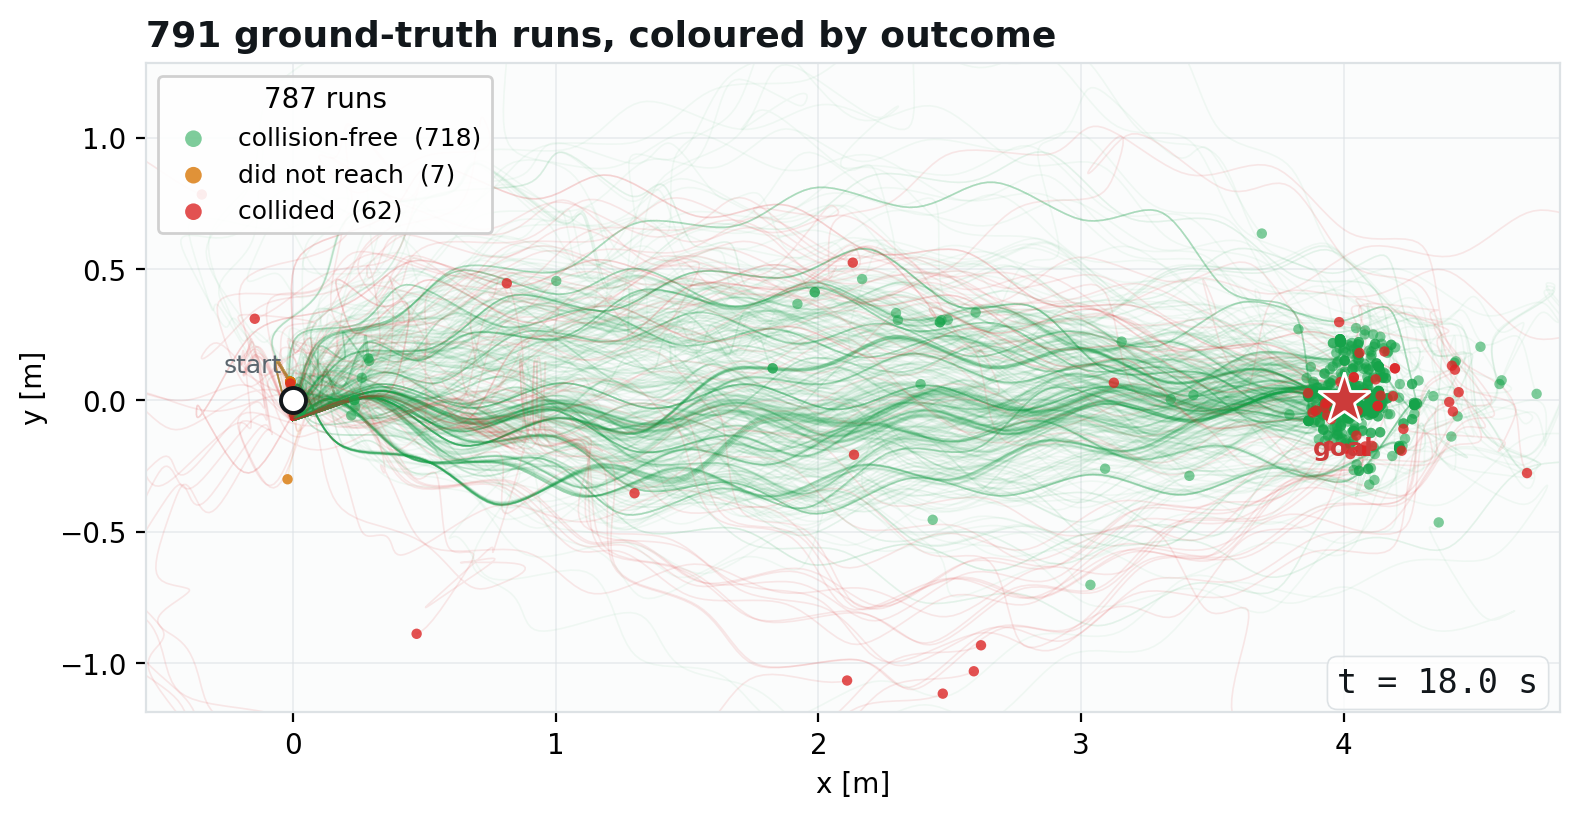
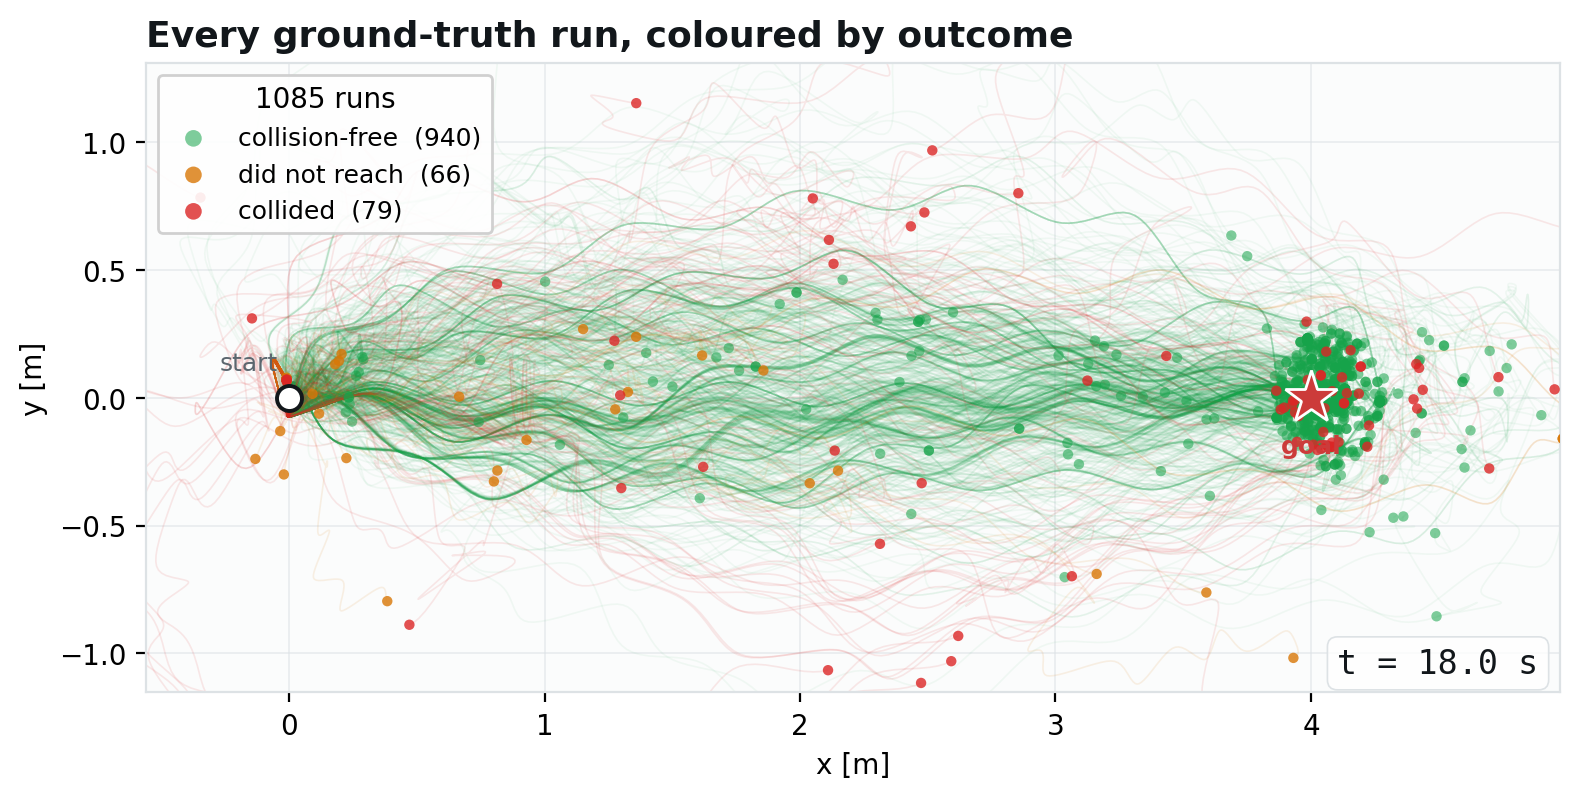
Q-H hard: safety follows the crowd, speed follows the robot
At 48 pedestrians the reciprocity plane finally has structure, and the two
failure modes separate cleanly -- so reporting them merged (as Q-H did) hides the
result. Split:

  * Collisions occur only in the ped=0 column (crowd yields nothing): 20-70%
    there, 0% everywhere else, and even a robot at full responsibility cannot
    stop them -- the clearest statement of the out-run limit. Safety follows the
    crowd.
  * Timeouts occur only in the robot=0 row (60-90%) and vanish as the robot's
    share rises: a passive robot bogs down in the jam (median 29-41 s) where an
    active one walks through in 11 s. Liveness follows the robot.

This refines Q-H rather than contradicting it: the robot's share was not
irrelevant, it governs liveness; it only looked irrelevant at n=8 because nothing
there was hard enough to bog the robot down.

Deck: the ensemble montage is now ground-truth only (the 42 perception runs were
a different failure mode and are shown separately on the Q-F slide), and it now
spans all 1085 ground-truth runs including the hard crowd, so it shows real
failures rather than an all-green bundle -- 940 collision-free, 66 did-not-reach,
79 collided. Adds the Q-H-hard slide, the qs_stress and qh_hard rows to the
experiment matrix, and updates every run count (1133 total).

diff --git a/experiments/build_deck.py b/experiments/build_deck.py
@@ -25,7 +25,7 @@ SLIDES = [
  dict(n=1, arc="setup", qid="", head="Crowd navigation for a Talos humanoid",
       sub="An evaluation of what the ORCA-on-a-biped stack actually does",
       body="""<p>MuJoCo · Talos · ORCA crowd · LIP-MPC + TSID walking controller.
-      <strong>800+ simulation runs</strong> across eight questions.</p>
+      <strong>1&thinsp;100+ simulation runs</strong> across ten questions.</p>
       <p class="muted">Lara Heidtmann · Florian Bohnes · Sebastián Serna · Moritz Heber · Nicolas Guenther</p>""",
       fig=None, take=None),
 
@@ -75,7 +75,7 @@ SLIDES = [
       sub="Headless sweeps, 10 seeds per condition, metrics to disk",
       body="""<div class="split">
       <div><h4>Setup</h4><ul>
-      <li>800+ runs, headless, 10 at a time</li>
+      <li>1&thinsp;100+ runs, headless, 10 at a time</li>
       <li>each run its own <code>ROS_DOMAIN_ID</code> — without it, parallel runs share a DDS
       domain and one run's ORCA steers on another's odometry</li>
       <li>10 seeds per condition; simulator otherwise deterministic (verified)</li>
@@ -85,12 +85,13 @@ SLIDES = [
       otherwise an undetected pedestrian silently vanishes from the safety statistics.</li>
       <li><strong>Samples after a fall are excluded</strong> from collision counts: a collapsed
       robot drifting into someone is not an avoidance failure.</li></ul></div></div>
-      <p style="margin-top:16px">Every one of the 827 runs, robot path overlaid and coloured by outcome —
-      the whole evaluation in one frame:</p>""",
+      <p style="margin-top:16px">Every <strong>ground-truth</strong> run, robot path overlaid and coloured by
+      outcome — the whole evaluation in one frame. The 42 depth-camera runs are held out here (they are a
+      different system — see Q-F) rather than pooled in:</p>""",
       ensemble=True, fig=None, take=None),
 
  dict(n=6, arc="setup", qid="method", head="Every experiment, every setting",
-      sub="833 runs · 11 sweeps · one variable at a time",
+      sub="1 133 runs · 13 sweeps · one variable at a time",
       body="""<h4>The baseline — held fixed unless a row below says otherwise</h4>
       <div class="tablewrap"><table class="data cfg"><tbody>
       <tr><td><code>scenario</code></td><td class="num">random</td>
@@ -142,6 +143,10 @@ SLIDES = [
       <tr class="added"><td class="qid">H</td><td><code>qh_reciprocity</code></td><td>robot_responsibility × ped_responsibility</td>
           <td class="num">{0, 0.2, 0.5, 1.0} × {0, 0.1, 0.2, 0.3, 0.5}</td>
           <td class="num">random × 8</td><td class="num">10</td><td class="num">200</td></tr>
+      <tr class="added"><td class="qid">—</td><td><code>qs_stress</code></td><td>n_peds × crowd_extent <span class="muted">(calibration)</span></td>
+          <td class="num">{8,16,24,32,48} × {5, 3} m</td><td class="num">random</td><td class="num">10</td><td class="num">100</td></tr>
+      <tr class="added"><td class="qid">H⁺</td><td><code>qh_hard</code></td><td>robot_resp × ped_resp <span class="muted">@ 48 peds</span></td>
+          <td class="num">{0,0.2,0.5,1.0} × {0,0.1,0.2,0.3,0.5}</td><td class="num">random × 48</td><td class="num">10</td><td class="num">200</td></tr>
       <tr><td class="qid">—</td><td><code>gif_runs</code></td><td>scenario <span class="muted">(18 s, early_stop off)</span></td>
           <td class="num">all six</td><td class="num">all six × 8</td><td class="num">1</td><td class="num">6</td></tr>
       </tbody></table></div>
@@ -150,7 +155,7 @@ SLIDES = [
       <strong>Breadth once, depth on one.</strong> Q-C establishes the system across all six scenarios;
       the parameter sweeps then hold scenario at <code>random × 8</code> so a cell-to-cell difference is
       attributable to the parameter, not the scene. Q-H across all six would have been 1 200 runs.<br>
-      <strong>791 of 833 runs use ground truth.</strong> Perception is an ablation (Q-F, Q-A), deliberately
+      <strong>1&thinsp;091 of 1&thinsp;133 runs use ground truth.</strong> Perception is an ablation (Q-F, Q-A), deliberately
       held out of the planner sweeps so a tracker bug could not be mistaken for a planner result — which
       mattered, since the radius estimator turned out to ratchet to 3–15 m.</p>""",
       fig=None, take=None),
@@ -208,7 +213,7 @@ SLIDES = [
       <tr><td class="num">0.30</td><td class="num">0.299</td><td class="num">1.02</td><td class="num">14.5 s</td><td class="num">1.075</td></tr>
       <tr><td class="num">0.45</td><td class="num">0.387</td><td class="num">0.93</td><td class="num">10.7 s</td><td class="num">1.024</td></tr>
       <tr class="best"><td class="num">0.60</td><td class="num">0.403</td><td class="num">0.76</td><td class="num">10.2 s</td><td class="num">1.016</td></tr>
-      <tr><td class="num">1.20 <span class="muted">(shipped)</span></td><td class="num">0.408</td><td class="num">0.45</td><td class="num">10.3 s</td><td class="num">1.048</td></tr>
+      <tr><td class="num">1.20 <span class="muted">(baseline)</span></td><td class="num">0.408</td><td class="num">0.45</td><td class="num">10.3 s</td><td class="num">1.048</td></tr>
       </tbody></table>
       <p>Achieved speed saturates at <b class="num">≈0.40 m/s</b>. Between 0.6 and 1.2 the robot asks for
       twice the speed and arrives <em>no sooner</em>.</p>""",
@@ -261,7 +266,7 @@ SLIDES = [
       <table class="data head"><thead><tr><th>ped_resp</th><th>head_on</th><th>crossing</th><th>random ×8</th></tr></thead><tbody>
       <tr><td class="num">0.0</td><td class="num ok">100 %</td><td class="num ok">100 %</td><td class="num bad">60 %</td></tr>
       <tr class="best"><td class="num">0.1</td><td class="num ok">100 %</td><td class="num ok">100 %</td><td class="num ok">100 %</td></tr>
-      <tr><td class="num">0.3 <span class="muted">(shipped)</span></td><td class="num ok">100 %</td><td class="num ok">100 %</td><td class="num ok">100 %</td></tr>
+      <tr><td class="num">0.3 <span class="muted">(baseline)</span></td><td class="num ok">100 %</td><td class="num ok">100 %</td><td class="num ok">100 %</td></tr>
       <tr><td class="num">0.5</td><td class="num ok">100 %</td><td class="num ok">100 %</td><td class="num ok">100 %</td></tr>
       </tbody></table>
       <p><strong>A sharp knee at 0.1.</strong> Once each pedestrian takes even 10 % of the avoidance,
@@ -270,11 +275,11 @@ SLIDES = [
       fig="qg2_ped_responsibility",
       take=("ok", "The honest refinement: the robot's avoidance is <em>sufficient for any crowd that can "
             "see it</em>, and useless against one that cannot. Q-G's 0 % is the blind extreme, not the "
-            "whole story. The shipped 0.3 sits safely past the knee.")),
+            "whole story. The 0.3 our sweeps hold sits safely past the knee.")),
 
  dict(n=13, arc="the resolution", qid="Q-H", head="Whose share is it — robot or crowd?",
       sub="200 runs crossing the robot's share with the crowd's",
-      body="""<p>Reference ORCA expects a pair's shares to sum to ≈1.0; the shipped default sums to only
+      body="""<p>Reference ORCA expects a pair's shares to sum to ≈1.0; the baseline pair sums to only
       0.2 + 0.3 = 0.5. So does the <em>total</em> matter, or <em>who</em> provides it?</p>
       <p><strong>The failure is a single column, not a diagonal.</strong> Every cell where the crowd takes
       even 10 % is 100 %. The robot's own share is a weak floor: in the fully-non-yielding column it lifts
@@ -285,9 +290,29 @@ SLIDES = [
       share, not the same total. A total of 1.0 gives 60 % (robot 1.0 + ped 0.0) or 100 % (robot 0.5 +
       ped 0.5). The split matters, not the sum — because the two agents are not symmetric.</p>""",
       fig="qh_reciprocity",
-      take=("ok", "The shipped (0.2, 0.3) sits deep in the safe interior. Q-H says the robot's 0.2 is "
-            "barely adding to what the crowd's 0.3 already handles — it could be raised for cheap "
-            "insurance toward the non-yielding corner.")),
+      take=("warn", "But random ×8 is too easy — 19 of 20 cells are 100 %, so this can't show a gradient. "
+            "Is the robot's share really that weak, or is nothing here hard enough to need it? Make it "
+            "harder.")),
+
+ dict(n=13, arc="the resolution", qid="Q-H hard", head="On a real crowd, the two jobs separate",
+      sub="Same plane at 48 pedestrians — where it finally bites",
+      body="""<p>Adding bodies alone doesn't make it dangerous: from 8 to 32 pedestrians collisions stay
+      at <b class="num">0 %</b> and only the effort climbs (time to goal 10 → 26 s). Failures appear at
+      <b class="num">48</b> — so the plane was rerun there, and the two failure modes split cleanly.</p>
+      <table class="data head"><thead><tr><th></th><th>collisions</th><th>timeouts</th><th>drives it</th></tr></thead><tbody>
+      <tr><td><strong>crowd yields nothing</strong> (ped = 0)</td><td class="num bad">20–70 %</td>
+          <td class="num">—</td><td>the <strong>crowd</strong></td></tr>
+      <tr><td><strong>robot stays passive</strong> (robot = 0)</td><td class="num">—</td>
+          <td class="num bad">60–90 %</td><td>the <strong>robot</strong></td></tr>
+      </tbody></table>
+      <p><strong>Safety follows the crowd; speed follows the robot.</strong> Collisions happen only when the
+      crowd yields nothing, and even a robot at full responsibility can't stop them there (out-run again).
+      Timeouts happen only when the robot is passive — it bogs down in the jam (29–41 s) where an active
+      robot walks through in 11 s.</p>""",
+      fig="qhh_reciprocity_hard",
+      take=("ok", "This refines Q-H, doesn't contradict it: the robot's share wasn't irrelevant, it governs "
+            "<em>liveness</em>. It only looked irrelevant at n = 8 because nothing was hard enough to bog "
+            "the robot down.")),
 
  dict(n=14, arc="the resolution", qid="Q-F", head="Perception costs the goal, provably not safety",
       sub="60 runs, paired by scenario and seed",
@@ -304,6 +329,9 @@ else:
       neighbour overlapping the robot, takes its already-colliding branch, and commands a full-speed
       escape — <code>|v_cmd|</code> sits at the 1.5 m/s cap for 97 % of the run.</p>""",
       fig="qf_perception",
+      ensemble_file="ensemble_perception.gif",
+      ensemble_caption="All 42 depth-camera runs: the robot flees phantoms and wanders — "
+                       "0 collided, 32 never arrive. A different failure from the ground-truth stack.",
       take=("fix", "Fix is a ceiling: <code>radius = min(radius, 0.6)</code>. The "
             "&ldquo;never under-estimate&rdquo; instinct is right; it just needs a bound.")),
 
@@ -323,9 +351,9 @@ else:
       <ul class="lim">
       <li>Pedestrians are ghosts — in the blind runs the robot passes <em>through</em> people without ever
       losing balance. With contact enabled the blind condition would look worse still.</li>
-      <li>The shipped crowd avoids the robot using <em>ground-truth</em> robot state — more cooperative and
+      <li>The crowd avoids the robot using <em>ground-truth</em> robot state — more cooperative and
       better informed than any real crowd. Q-G quantifies how much that flatters us: all of it.</li>
-      <li>The blind condition is one extreme and the shipped cooperative crowd the other; Q-G2 measures
+      <li>The blind condition is one extreme and the fully cooperative crowd the other; Q-G2 measures
       the middle, but a clean robot-only isolation (per-neighbour responsibility) was left unbuilt.</li>
       <li>Kinematic disks, not gait-driven humans. One robot, one goal, no static obstacles.</li></ul>""",
       fig=None, take=None),
@@ -352,7 +380,13 @@ def slide_html(s):
         parts.append(f'<div class="gifgrid">{cells}</div>')
     if s.get("ensemble"):
         parts.append(f'<figure><img src="{gif_raw("ensemble_all.gif")}" '
-                     f'alt="827 runs overlaid, coloured by outcome"></figure>')
+                     f'alt="ground-truth runs overlaid, coloured by outcome"></figure>')
+    if s.get("ensemble_file"):
+        cap = s.get("ensemble_caption", "")
+        parts.append(f'<figure><img src="{gif_raw(s["ensemble_file"])}" '
+                     f'alt="perception runs overlaid">'
+                     + (f'<figcaption>{cap}</figcaption>' if cap else '')
+                     + '</figure>')
     for key in ("fig", "fig2"):
         if s.get(key):
             parts.append(f'<figure><img src="{img(s[key])}" alt="{html.escape(s["qid"] or s["head"])} figure" loading="lazy"></figure>')
@@ -475,6 +509,7 @@ table.matrix code {{ font-size:11.5px; background:none; padding:0; color:var(--i
 figure {{ margin:20px 0 0; background:var(--plate); border:1px solid var(--rule); border-radius:8px;
   padding:9px; overflow-x:auto; }}
 figure img {{ display:block; width:100%; max-width:100%; height:auto; border-radius:3px; }}
+figcaption {{ font-size:12.5px; color:var(--ink2); padding:8px 4px 2px; }}
 .gifgrid {{ display:grid; grid-template-columns:repeat(3,1fr); gap:10px; margin-top:18px; }}
 .gifgrid .gcell {{ margin:0; padding:6px; background:var(--plate); border:1px solid var(--rule);
   border-radius:8px; overflow:hidden; }}

diff --git a/experiments/analyze.py b/experiments/analyze.py
@@ -1038,8 +1038,81 @@ def qh():
     print(t.to_string())
 
 
+def qhh():
+    """Q-H on a hard (48-pedestrian) crowd, where the plane is not saturated.
+
+    At this density the two failure modes separate, and the merged
+    'collision-free success' would hide that -- so this splits them: a collision
+    heatmap (the safety / reciprocity result) and a did-not-finish heatmap (the
+    liveness result), plus the effort. The two point in different directions,
+    which is the finding.
+    """
+    df = _load("qh_hard")
+    if df is None:
+        return
+    df = df.copy()
+    df["timeout"] = (~df["reached_goal"].astype(bool)) & (~df["collided"].astype(bool))
+    rrs = sorted(df["robot_responsibility"].unique())
+    prs = sorted(df["ped_responsibility"].unique())
+
+    def grid(fn):
+        M = np.full((len(rrs), len(prs)), np.nan)
+        for i, rr in enumerate(rrs):
+            for j, pr in enumerate(prs):
+                sel = df[(df.robot_responsibility == rr) &
+                         (df.ped_responsibility == pr)]
+                if len(sel):
+                    M[i, j] = fn(sel)
+        return M
+
+    COLL = grid(lambda s: s["collided"].mean())
+    TMO = grid(lambda s: s["timeout"].mean())
+    TG = grid(lambda s: s["t_goal_s"].median())
+
+    fig, axs = plt.subplots(1, 3, figsize=(15.5, 4.7))
+
+    def heat(ax, M, cmap, title, fmt, hi):
+        im = ax.imshow(M, cmap=cmap, vmin=0, vmax=hi, origin="lower", aspect="auto")
+        ax.set_xticks(range(len(prs))); ax.set_xticklabels(prs)
+        ax.set_yticks(range(len(rrs))); ax.set_yticklabels(rrs)
+        ax.set_xlabel("pedestrian responsibility  (crowd yields →)")
+        ax.set_ylabel("robot responsibility")
+        for i in range(len(rrs)):
+            for j in range(len(prs)):
+                if np.isfinite(M[i, j]):
+                    val = M[i, j]
+                    ax.text(j, i, fmt(val), ha="center", va="center", fontsize=9.5,
+                            color="#fff" if val > 0.55 * hi else INK)
+        ax.set_title(title, loc="left")
+        return im
+
+    heat(axs[0], COLL, "Reds", "Collisions  (crowd's fault line)",
+         lambda v: f"{100*v:.0f}", 1.0)
+    axs[0].text(0, len(rrs) - 0.5, "", fontsize=8)
+    heat(axs[1], TMO, "Purples", "Did not finish in 45 s  (robot's fault line)",
+         lambda v: f"{100*v:.0f}", 1.0)
+
+    im = heat(axs[2], TG, "Blues_r", "Median time to goal [s]",
+              lambda v: f"{v:.0f}", 45.0)
+    fig.colorbar(im, ax=axs[2], fraction=0.046, label="s")
+
+    fig.suptitle("Q-H (hard)  48 pedestrians: safety follows the crowd, speed "
+                 "follows the robot", x=0.02, ha="left", fontweight="bold")
+    fig.tight_layout(rect=(0, 0, 1, 0.93))
+    _save(fig, "qhh_reciprocity_hard")
+
+    t = df.groupby(["robot_responsibility", "ped_responsibility"]).agg(
+        n=("success", "size"), collided=("collided", "mean"),
+        timeout=("timeout", "mean"),
+        collision_free=("success_collision_free", "mean"),
+        min_sep=("min_sep_m", "median"), t_goal=("t_goal_s", "median"),
+        path_ratio=("path_ratio", "median")).round(3)
+    t.to_csv(os.path.join(RESULTS, "table_qhh_reciprocity_hard.csv"))
+    print(t.to_string())
+
+
 ALL = dict(qa=qa, qb=qb, qb2=qb2, qc=qc, qc_traj=qc_traj, qd=qd, qe=qe, qf=qf,
-           qg=qg, qg2=qg2, qh=qh)
+           qg=qg, qg2=qg2, qh=qh, qhh=qhh)
 
 
 def main():

diff --git a/experiments/EVALUATION.md b/experiments/EVALUATION.md
@@ -500,6 +500,45 @@ what the code held. If a value has to be chosen, the data says the robot's share
 can be raised toward 0.5 for insurance in the ped → 0 direction at no cost
 elsewhere.
 
+### Q-H (hard) — the reciprocity plane on a crowd that actually resists  → `figures/qhh_reciprocity_hard.png`
+
+Q-H at random ×8 was saturated — 100 % in 19 of 20 cells — so it could show no
+gradient, and its reading that "the robot's share barely matters" was really a
+statement that *nothing* was hard enough to need it. A calibration sweep
+(`qs_stress`, 100 runs) confirmed the cause: from 8 to 32 pedestrians the
+collision rate stays at exactly 0 % and only the effort rises (time to goal
+10 → 26 s, path ratio to 1.7). **Crowding costs time, not safety, while the
+crowd yields** — itself a third confirmation of Q-G. Failures appear only at 48
+pedestrians, so the plane was rerun there: `robot_responsibility ×
+ped_responsibility` at n = 48, 200 runs.
+
+At that density the two failure modes separate, and merging them into
+"collision-free success" (as Q-H did) hides the result. Split apart:
+
+**Collisions — the crowd's fault line.** Collisions occur *only* in the ped = 0
+column (crowd yields nothing): 20–70 % there, and **0 % in every other cell**.
+The robot's own share reduces them a little (70 % → 30 % as it rises from 0.2 to
+1.0) but never to zero. So even taking full responsibility, the robot cannot
+make itself safe against a dense crowd that does not yield — the clearest
+statement yet of the out-run limit from Q-B.
+
+**Timeouts — the robot's fault line.** Not finishing within 45 s concentrates in
+the robot = 0.0 row (60–90 %) and vanishes as the robot's share rises. A passive
+robot bogs down in a 48-body jam; median time to goal runs 29–41 s at
+robot = 0.0 against **11 s at robot = 1.0**. Liveness is entirely the robot's.
+
+So the hard crowd cleanly decouples the two axes: **safety follows the crowd,
+speed follows the robot.** This refines rather than contradicts Q-H — the robot's
+responsibility was not "irrelevant", it governs liveness; it only looked
+irrelevant at n = 8 because nothing there was hard enough to bog it down.
+
+Caveat, stated for the slide: with ghost pedestrians a dense jam is passable —
+the robot can tunnel through rather than go around — so at n = 48 the collision
+rate is honest but time-to-goal still *understates* how hard a physically solid
+crowd would be. And the timeout rate depends on the 45 s cap; a run needing 46 s
+is scored a failure. Both push the same way (the true difficulty is higher than
+shown), so the direction of every conclusion holds.
+
 ---
 
 ## 4. The story in one paragraph
